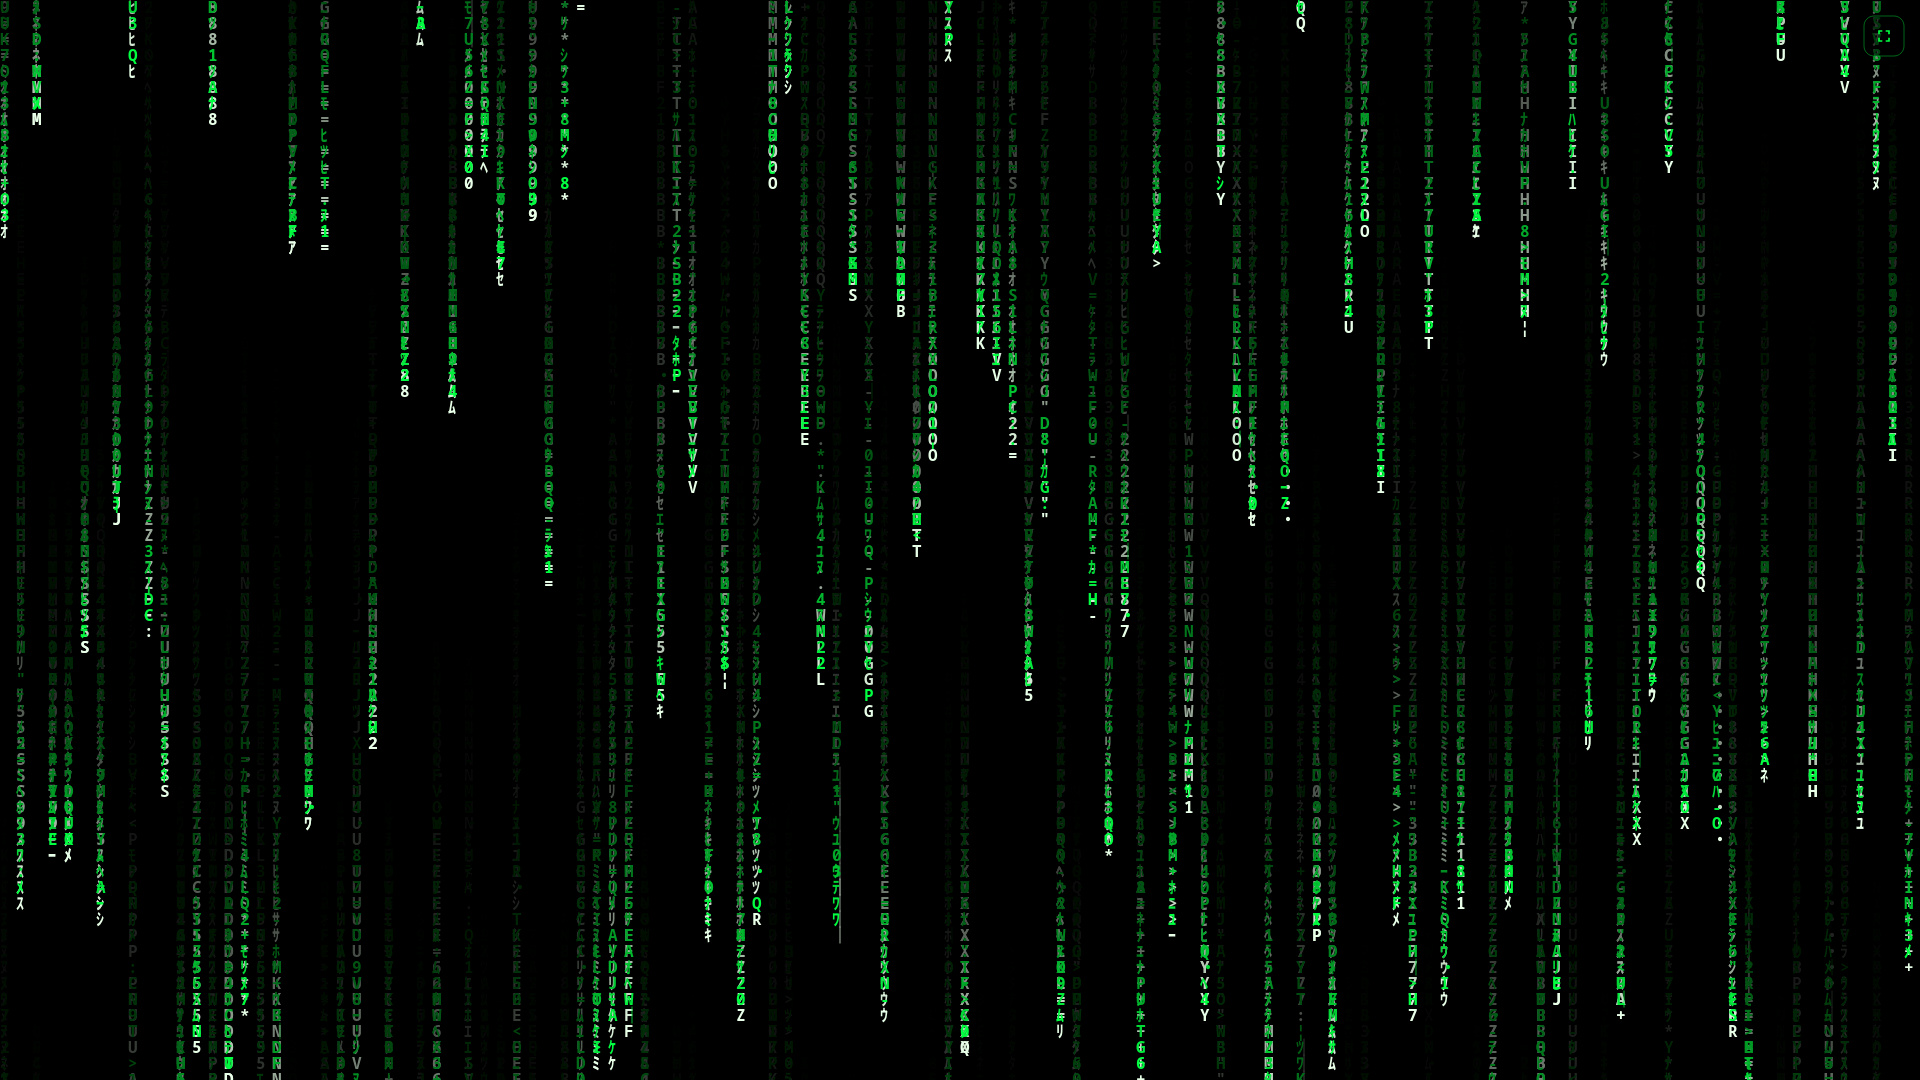
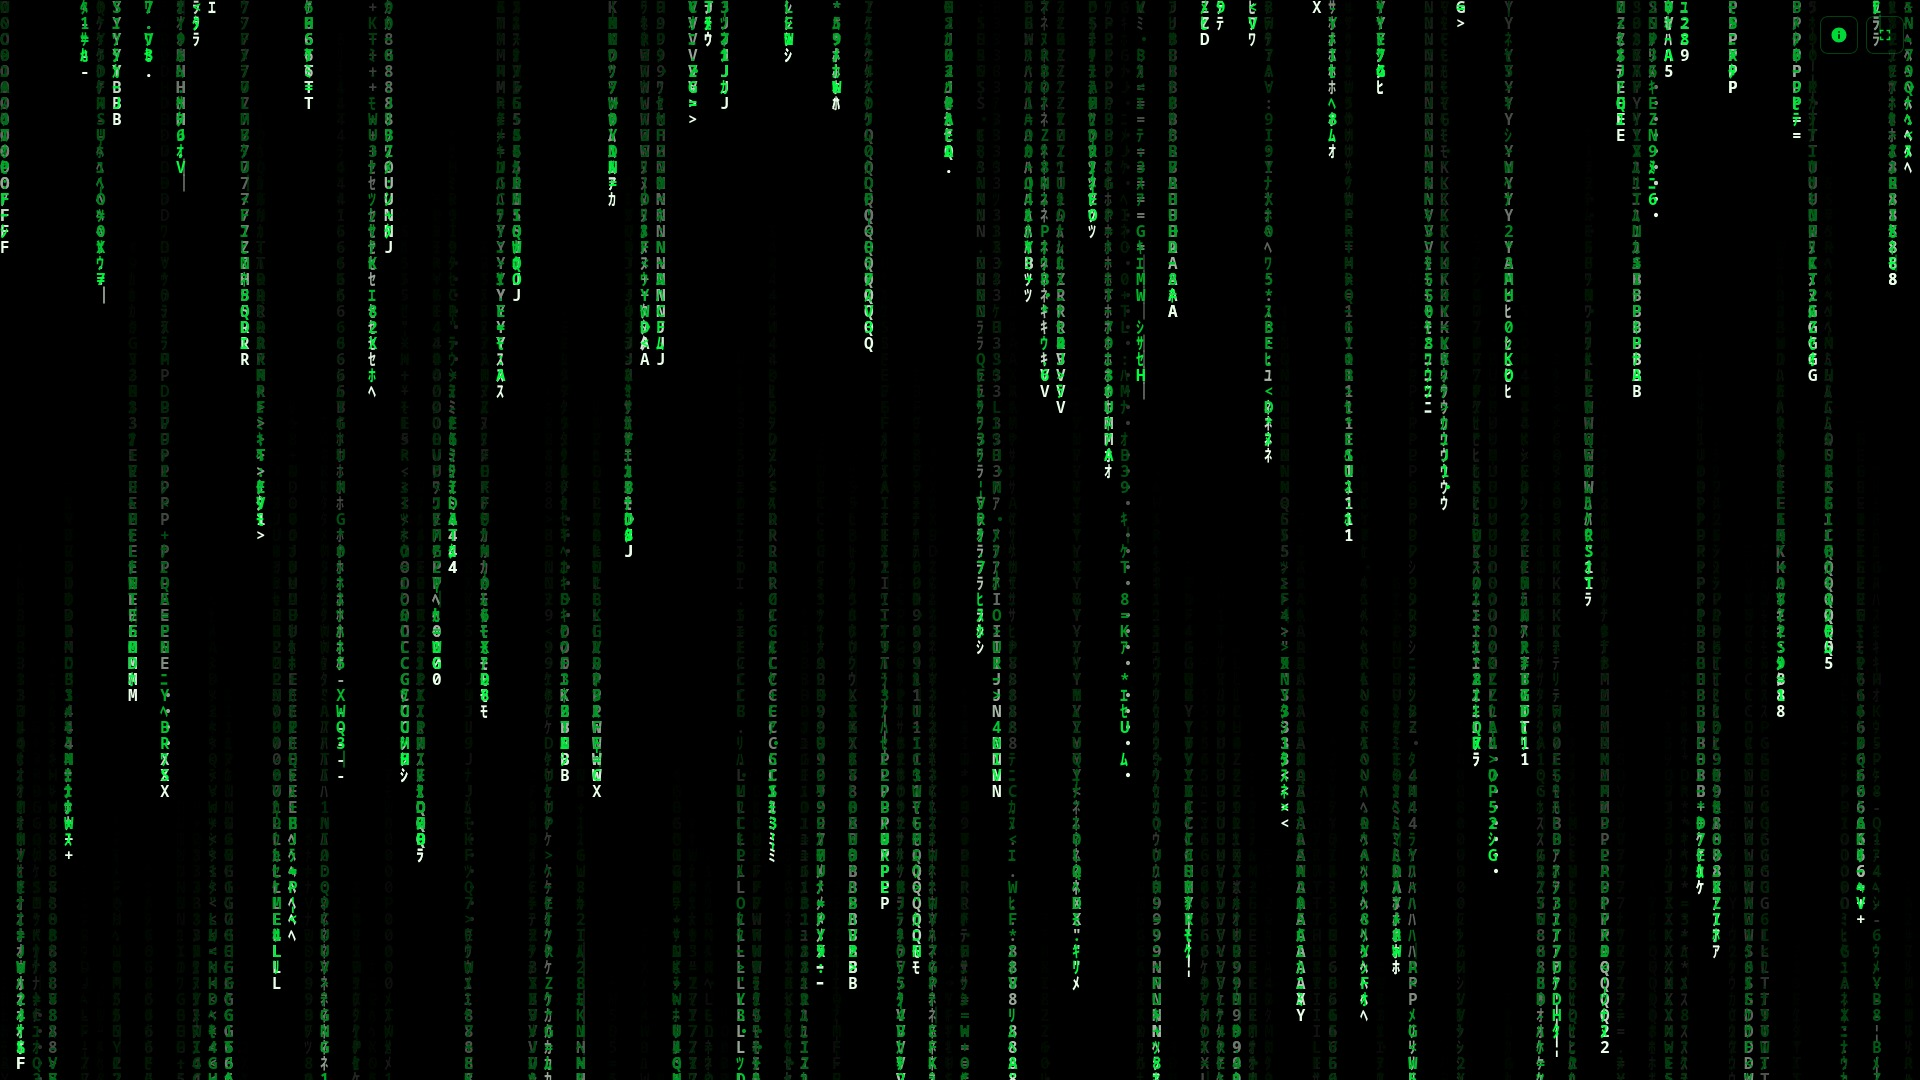
docs: update README and live preview screenshots for v1.0.0

diff --git a/README.md b/README.md
@@ -1,7 +1,7 @@
 # Matrix Digital Rain 🟢
 
 [![License: MIT](https://img.shields.io/badge/License-MIT-green.svg)](https://opensource.org/licenses/MIT)
-[![Version: v2.0.0](https://img.shields.io/badge/Release-v2.0.0-brightgreen.svg)](https://github.com/barizshah/matrix-digital-rain/releases/tag/v2.0.0)
+[![Version: v1.0.0](https://img.shields.io/badge/Release-v1.0.0-brightgreen.svg)](https://github.com/barizshah/matrix-digital-rain/releases/tag/v1.0.0)
 [![HTML5 Canvas](https://img.shields.io/badge/Canvas-HTML5-E34F26?logo=html5&logoColor=white)](https://developer.mozilla.org/en-US/docs/Web/API/Canvas_API)
 [![Vanilla JS](https://img.shields.io/badge/Vanilla-JavaScript-F7DF1E?logo=javascript&logoColor=black)](https://developer.mozilla.org/en-US/docs/Web/JavaScript)
 [![Live Demo](https://img.shields.io/badge/demo-online-brightgreen.svg)](https://barizshah.github.io/matrix-digital-rain/)
@@ -18,6 +18,12 @@ A lightweight, pure, zero-dependency HTML5 Canvas and vanilla JavaScript impleme
 
 ---
 
+## ℹ Cyber About Dialog
+
+![Matrix Digital Rain About Dialog](assets/about.png)
+
+---
+
 ## 📱 Mobile Preview
 
 <p align="center">
@@ -26,31 +32,33 @@ A lightweight, pure, zero-dependency HTML5 Canvas and vanilla JavaScript impleme
 
 ---
 
-## ✨ Features in v2.0.0
+## ✨ Features in v1.0.0
 
-- 🟢 **Pure & Distraction-Free**: Clean, authentic Matrix visual effect with no bloated menus, complex UI, or unnecessary dependencies.
-- ⚡ **Zero Dependencies**: Pure HTML5 Canvas and vanilla JavaScript (`0` libraries, `0` external assets).
-- 💚 **Authentic Movie Visuals**: Glowing bright white-hot lead glyphs cascading into phosphor neon-green fading trails (`#00FF41`).
-- ⛶ **Smart Fullscreen**: Always accessible in windowed mode, and automatically fades away after 3 seconds of inactivity once entered into Fullscreen mode. Tap or move pointer to reveal it.
+- 🟢 **Pure & Distraction-Free**: Clean, authentic Matrix visual effect with no bloated menus, clutter, or external dependencies.
+- ⚡ **Zero Dependencies**: Pure HTML5 Canvas and vanilla JavaScript (`0` libraries, `0` external assets, self-contained single-file).
+- 💚 **Authentic Movie Visuals**: Glowing bright white-hot lead glyphs cascading into phosphor neon-green fading trails (`#00FF41`) with organic column depth and authentic 30 FPS film cadence.
+- ⛶ **Flawless Fullscreen**: Quick-toggle button in the header and hotkey <kbd>F</kbd>. Includes auto-fade HUD timer and full-bleed pixel-perfect canvas rendering with zero gap.
+- 🧊 **Perfect Pause State**: Freeze rain instantaneously with <kbd>Space</kbd>. Seamlessly transition into and out of fullscreen mode while paused without visual distortion, gaps, or animation resets.
+- ℹ **Cyber About Modal**: Translucent glassmorphism info dialog featuring keyboard shortcuts, version badge, and creator attribution.
 - 📱 **Mobile & Desktop Optimized**:
   - Automatically adapts font size and column density for desktop (`16px`) and mobile (`18px`).
   - Device Pixel Ratio (DPR) capped at 2 to ensure razor-sharp text on Retina/OLED displays while preserving GPU fill-rate and battery life.
   - Safe-area insets support (`viewport-fit=cover`, `env(safe-area-inset-*)`) for notched phone displays.
-- 💤 **Screensaver Mode (Screen Wake Lock)**: Activates automatically when entering fullscreen mode to keep your display awake as a cinematic screensaver; released immediately when exiting fullscreen, paused, or minimized.
+- 💤 **Screensaver Mode (Screen Wake Lock)**: Activates automatically when entering fullscreen mode to keep your display awake as a cinematic ambient screensaver; releases immediately when exiting fullscreen, paused, or minimized.
 - 🔣 **Rich Character Stream**: Authentic half-width Japanese Katakana (`ﾊﾐﾋｰｳｼﾅﾓﾆ...`), Latin letters, numbers, and matrix symbols.
-- 👆 **Interactive Touch & Ripple**: Tap, click, or drag anywhere across the screen to scatter falling code streams.
 
 ---
 
-## ⌨ Controls & Gestures
+## ⌨ Controls & Shortcuts
 
-| Control / Gesture | Action |
+| Control / Shortcut | Action |
 | :--- | :--- |
-| **Tap / Click** | Trigger digital rain ripple at pointer location |
-| **Move Mouse / Touch** | Reveal fullscreen control |
-| **Double Tap / Double Click** | Toggle Fullscreen mode |
-| <kbd>F</kbd> | Toggle Fullscreen |
 | <kbd>Space</kbd> | Pause / Resume animation |
+| <kbd>F</kbd> | Toggle Fullscreen mode |
+| <kbd>I</kbd> | Toggle Cyber About dialog |
+| <kbd>Esc</kbd> | Close Cyber About dialog |
+| **Header Button (⛶)** | Toggle Fullscreen mode |
+| **Header Button (ⓘ)** | Open Cyber About dialog |
 
 ---
 
